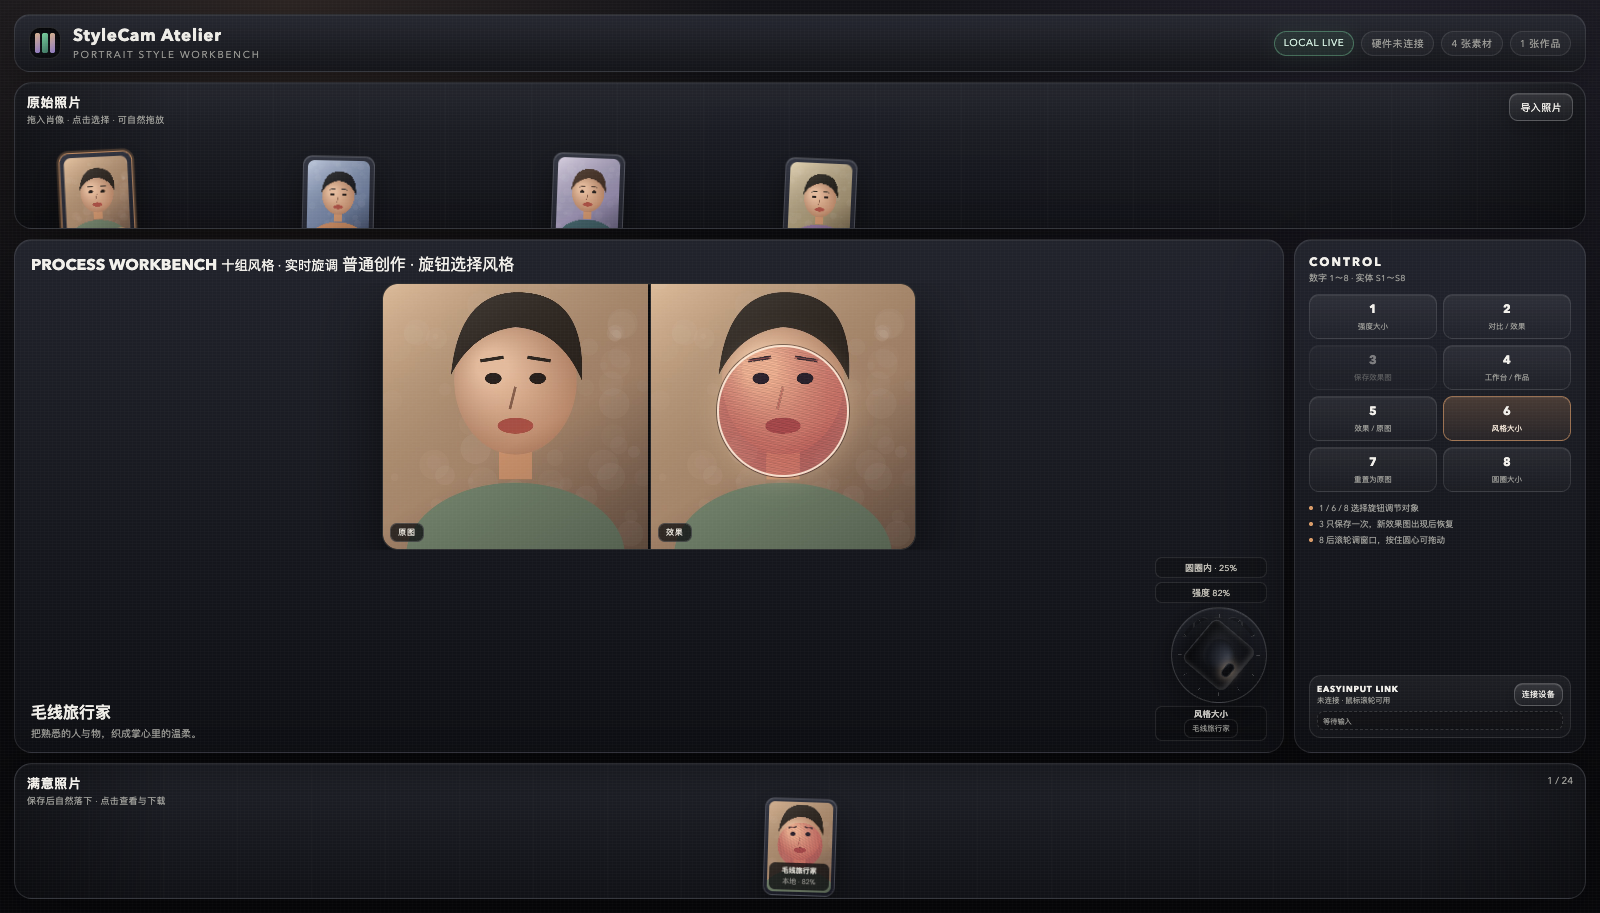
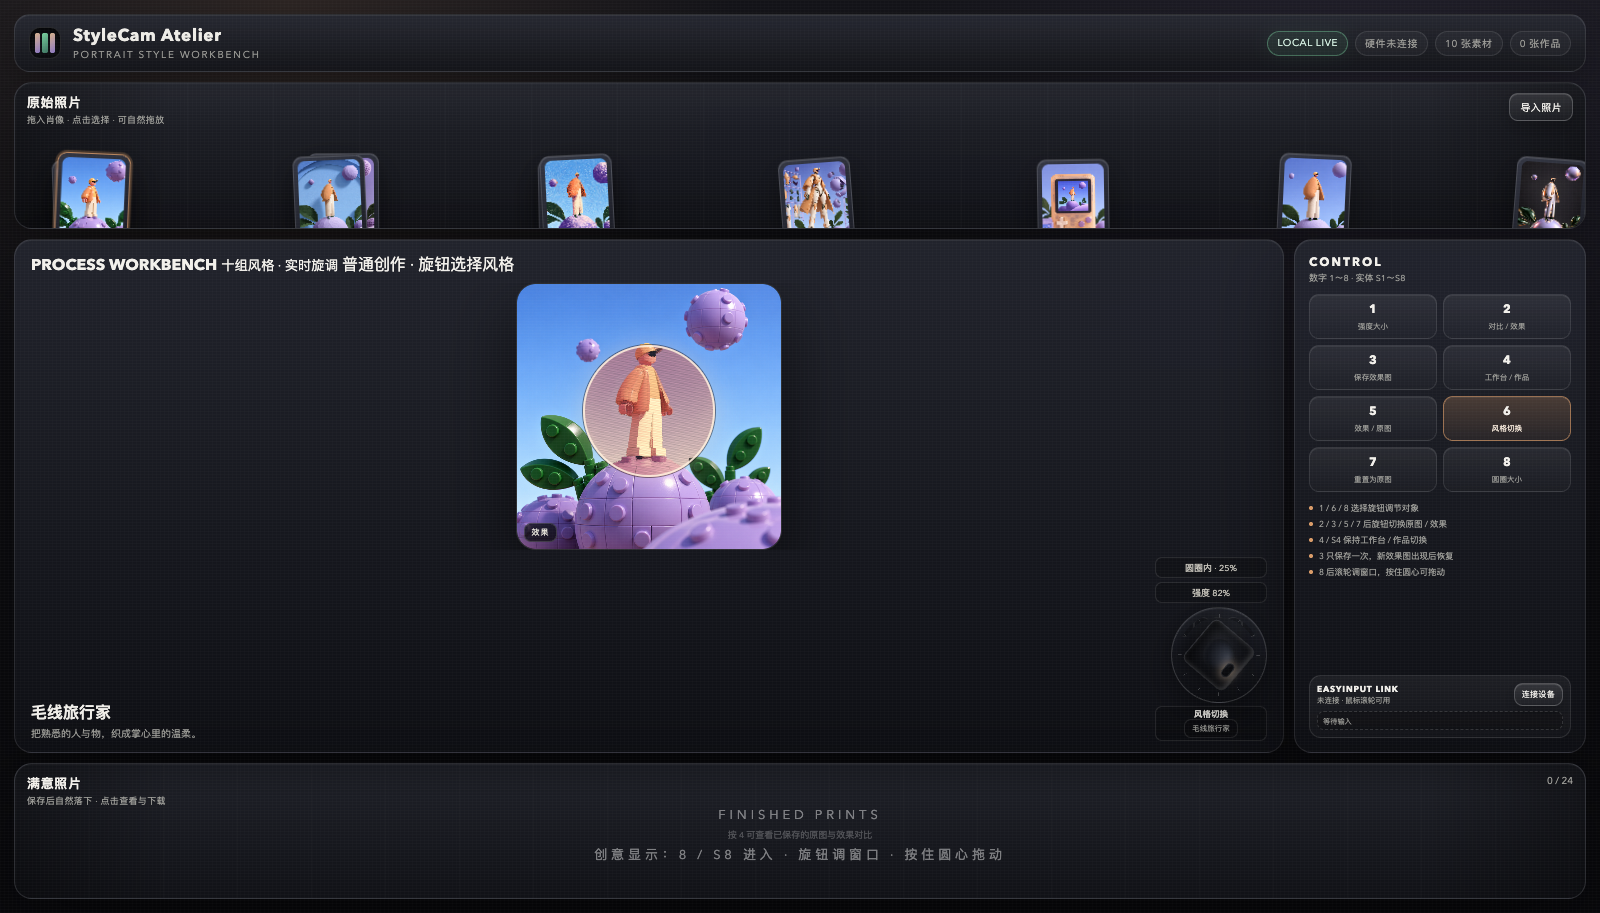
Add default portraits and refine view controls

diff --git a/app.js b/app.js
@@ -16,10 +16,19 @@
 
   const MODES = [
     { id: 'strength', name: '强度大小' },
-    { id: 'style', name: '风格大小' },
+    { id: 'style', name: '风格切换' },
     { id: 'radius', name: '圆圈大小' },
+    { id: 'view', name: '原图 / 效果' },
     { id: 'works', name: '查看作品' }
   ];
+
+  const DEFAULT_PORTRAITS = Array.from({ length: 10 }, (_, index) => {
+    const number = String(index + 1).padStart(2, '0');
+    return {
+      url: `./assets/portraits/${number}.png`,
+      name: `默认肖像 ${number}.png`
+    };
+  });
 
   const MAX_RADIUS = 1.50;
   const FULL_COVER_RADIUS = 1.42;
@@ -922,96 +931,11 @@
     if (added) showTap(`已导入 ${added} 张照片`);
   }
 
-  function makeSamplePortraits() {
-    const palettes = [
-      { bg: ['#d9b28a', '#73594a'], cloth: '#6f7f68', hair: '#28211c' },
-      { bg: ['#a7b8d8', '#3c4863'], cloth: '#c2855e', hair: '#191a1e' },
-      { bg: ['#c7c1dc', '#635a7a'], cloth: '#3f5d63', hair: '#402c23' },
-      { bg: ['#d7c6a3', '#6d5e45'], cloth: '#886b94', hair: '#211d18' }
-    ];
-    return palettes.map((palette, index) => {
-      const canvas = document.createElement('canvas');
-      canvas.width = 800;
-      canvas.height = 1000;
-      const ctx = canvas.getContext('2d');
-      const bg = ctx.createLinearGradient(0, 0, 800, 1000);
-      bg.addColorStop(0, palette.bg[0]);
-      bg.addColorStop(1, palette.bg[1]);
-      ctx.fillStyle = bg;
-      ctx.fillRect(0, 0, 800, 1000);
-
-      for (let i = 0; i < 90; i += 1) {
-        ctx.fillStyle = `rgba(255,255,255,${0.015 + Math.random() * 0.035})`;
-        ctx.beginPath();
-        ctx.arc(Math.random() * 800, Math.random() * 1000, Math.random() * 42 + 5, 0, Math.PI * 2);
-        ctx.fill();
-      }
-
-      // shoulders
-      ctx.fillStyle = palette.cloth;
-      ctx.beginPath();
-      ctx.ellipse(400, 920, 330, 220, 0, 0, Math.PI * 2);
-      ctx.fill();
-
-      // neck and face
-      ctx.fillStyle = '#c68e69';
-      ctx.fillRect(350, 520, 100, 170);
-      const face = ctx.createRadialGradient(330, 350, 45, 400, 410, 270);
-      face.addColorStop(0, '#efc3a2');
-      face.addColorStop(1, '#a06c50');
-      ctx.fillStyle = face;
-      ctx.beginPath();
-      ctx.ellipse(400, 390, 185, 225, 0, 0, Math.PI * 2);
-      ctx.fill();
-
-      // hair
-      ctx.fillStyle = palette.hair;
-      ctx.beginPath();
-      ctx.moveTo(205, 375);
-      ctx.quadraticCurveTo(230, 115, 420, 125);
-      ctx.quadraticCurveTo(615, 135, 600, 390);
-      ctx.quadraticCurveTo(535, 240, 400, 230);
-      ctx.quadraticCurveTo(270, 245, 205, 375);
-      ctx.closePath();
-      ctx.fill();
-
-      // eyes and brows
-      ctx.fillStyle = '#251d19';
-      ctx.beginPath();
-      ctx.ellipse(333, 385, 25, index % 2 ? 13 : 17, 0, 0, Math.PI * 2);
-      ctx.ellipse(467, 385, 25, index % 2 ? 13 : 17, 0, 0, Math.PI * 2);
-      ctx.fill();
-      ctx.lineWidth = 10;
-      ctx.strokeStyle = palette.hair;
-      ctx.beginPath();
-      ctx.moveTo(294, 332); ctx.lineTo(364, 321);
-      ctx.moveTo(436, 321); ctx.lineTo(506, 332);
-      ctx.stroke();
-
-      // nose and mouth
-      ctx.strokeStyle = 'rgba(90,52,38,.65)';
-      ctx.lineWidth = 8;
-      ctx.beginPath();
-      ctx.moveTo(400, 410); ctx.lineTo(383, 478);
-      ctx.stroke();
-      ctx.fillStyle = '#a94f44';
-      ctx.beginPath();
-      ctx.ellipse(400, 528, 54, 24, 0, 0, Math.PI * 2);
-      ctx.fill();
-
-      // lighting
-      const light = ctx.createLinearGradient(120, 0, 720, 1000);
-      light.addColorStop(0, 'rgba(255,242,226,.23)');
-      light.addColorStop(0.55, 'rgba(0,0,0,0)');
-      light.addColorStop(1, 'rgba(0,0,0,.28)');
-      ctx.fillStyle = light;
-      ctx.fillRect(0, 0, 800, 1000);
-
-      const dataUrl = canvas.toDataURL('image/jpeg', 0.90);
-      const image = new Image();
-      image.src = dataUrl;
-      return { image, dataUrl, name: `示例肖像 ${index + 1}.jpg` };
-    });
+  async function loadDefaultPortraits() {
+    return Promise.all(DEFAULT_PORTRAITS.map(async portrait => {
+      const image = await loadImageFromUrl(portrait.url);
+      return { image, dataUrl: portrait.url, name: portrait.name };
+    }));
   }
 
   /* ---------------- AI image pipeline ---------------- */
@@ -1234,7 +1158,7 @@
         browseWorks(delta);
         break;
       default:
-        changeStyle(delta);
+        setView(state.view === 'original' ? 'effect' : 'original');
         break;
     }
     updateUi();
@@ -1272,7 +1196,8 @@
     clearStaleAiResult();
     state.strengthTarget = 0;
     state.strength = 0;
-    setView('effect');
+    setView('original');
+    setMode('view');
     updateUi();
     showTap('效果图已重置为原图');
   }
@@ -1288,16 +1213,22 @@
         break;
       case 'compare':
         setView(state.view === 'compare' ? 'effect' : 'compare');
+        setMode('view');
         if (elements.workDialog.open) flashComparison();
         break;
       case 'save':
         if (elements.workDialog.open && dialogContext.work && !dialogContext.saved) {
-          void saveWork({ work: dialogContext.work });
+          void saveWork({ work: dialogContext.work }).then(work => {
+            if (work) setMode('view');
+          });
         } else {
-          void saveWork();
+          void saveWork().then(work => {
+            if (work) setMode('view');
+          });
         }
         break;
       case 'works':
+        // S4 keeps its dedicated behavior: close an open preview or browse works.
         if (elements.workDialog.open) {
           elements.workDialog.close();
           setCreativeDisplay(false);
@@ -1312,6 +1243,7 @@
         break;
       case 'original':
         setView(state.view === 'original' ? 'effect' : 'original');
+        setMode('view');
         break;
       case 'style':
         setCreativeDisplay(false);
@@ -1790,7 +1722,11 @@
         break;
       case 'works':
         browseWorks(delta);
-        break;    }
+        break;
+      default:
+        setView(state.view === 'original' ? 'effect' : 'original');
+        break;
+    }
     updateUi();
   }
 
@@ -1809,6 +1745,10 @@
       case 'strength': return `${Math.round(state.strengthTarget * 100)}%`;
       case 'source': return sources.length ? `${state.sourceIndex + 1} / ${sources.length}` : '未导入';
       case 'works': return works.length ? `${state.workBrowseIndex + 1} / ${works.length}` : '未保存';
+      case 'view':
+        if (state.view === 'original') return '原图';
+        if (state.view === 'compare') return '对比';
+        return '效果图';
       default: return '';
     }
   }
@@ -2087,18 +2027,14 @@
     updateCounts();
     void detectAiService();
 
-    const samples = makeSamplePortraits();
-    // Decode generated samples before addSource() uploads them; otherwise the
-    // first WebGL selection can receive an unfinished HTMLImageElement.
-    await Promise.all(samples.map(async sample => {
-      await sample.image.decode?.().catch(() => {});
-      return sample;
-    }));
+    // Static portraits still pass through the same decode boundary before WebGL
+    // upload, preventing INVALID_VALUE from incompletely decoded textures.
+    const samples = await loadDefaultPortraits();
     samples.forEach(sample => addSource(sample));
     selectSource(0);
     updateUi();
     requestAnimationFrame(frame);
-    showTap('已载入示例肖像，可拖入照片替换');
+    showTap('已载入 10 张默认肖像，可拖入照片替换');
   }
 
   void init();

diff --git a/docs/homework/input-mapping.html b/docs/homework/input-mapping.html
@@ -6,8 +6,8 @@ h1{margin:0 0 4px;font-size:28px}h2{margin:25px 0 8px;font-size:18px;color:#f0d5
 table{width:100%;border-collapse:collapse;margin-top:8px;font-size:12px}th,td{padding:8px 9px;border:1px solid rgba(255,255,255,.11);text-align:left}th{color:#d9c7ff;background:rgba(159,140,216,.10)}td:first-child{color:#ffd9ac;font-weight:700}
 .note{margin-top:15px;padding:10px;border-radius:9px;background:rgba(226,109,92,.10);border:1px solid rgba(226,109,92,.28);font-size:11px;line-height:1.6}.cols{display:grid;grid-template-columns:1fr 1fr;gap:14px}
 code{font-family:ui-monospace,Menlo,monospace;color:#b9f0d4}
-</style><div class="sheet"><h1>StyleCam 输入映射表</h1><div class="meta">数字 1～8 = 实体 S1～S8 · Web Serial 115200 baud · 页面 v14</div>
-<h2>核心功能</h2><table><tr><th>数字 / 实体键</th><th>功能</th><th>说明</th></tr><tr><td>1 / S1</td><td>强度大小</td><td>旋钮 / 滚轮调整强度</td></tr><tr><td>2 / S2</td><td>对比 / 效果</td><td>切换并排对比与单张效果图</td></tr><tr><td>3 / S3</td><td>保存效果图</td><td>同一效果图只保存一次</td></tr><tr><td>4 / S4</td><td>工作台 / 作品</td><td>弹窗打开则返回，否则查看作品</td></tr><tr><td>5 / S5</td><td>效果 / 原图</td><td>切换效果图与原图</td></tr><tr><td>6 / S6</td><td>风格大小</td><td>旋钮 / 滚轮切换 10 种风格</td></tr><tr><td>7 / S7</td><td>重置为原图</td><td>强度归零并清除 AI 成片</td></tr><tr><td>8 / S8</td><td>圆圈大小</td><td>进入创意显示并调整窗口</td></tr></table>
-<div class="cols"><div><h2>旋钮</h2><table><tr><th>状态</th><th>行为</th></tr><tr><td>默认 / 6</td><td>切换风格</td></tr><tr><td>1</td><td>强度 ±5%</td></tr><tr><td>8</td><td>圆圈大小</td></tr><tr><td>4</td><td>切换已保存作品</td></tr><tr><td>按下 · 1</td><td>确认强度并生成</td></tr><tr><td>按下 · 8</td><td>确认创意窗口</td></tr></table></div>
+</style><div class="sheet"><h1>StyleCam 输入映射表</h1><div class="meta">数字 1～8 = 实体 S1～S8 · Web Serial 115200 baud · 页面 v15</div>
+<h2>核心功能</h2><table><tr><th>数字 / 实体键</th><th>功能</th><th>说明</th></tr><tr><td>1 / S1</td><td>强度大小</td><td>旋钮 / 滚轮调整强度</td></tr><tr><td>2 / S2</td><td>对比 / 效果</td><td>切换并排对比与单张效果图</td></tr><tr><td>3 / S3</td><td>保存效果图</td><td>同一效果图只保存一次</td></tr><tr><td>4 / S4</td><td>工作台 / 作品</td><td>弹窗打开则返回，否则查看作品</td></tr><tr><td>5 / S5</td><td>效果 / 原图</td><td>切换效果图与原图</td></tr><tr><td>6 / S6</td><td>风格切换</td><td>旋钮 / 滚轮切换 10 种风格</td></tr><tr><td>7 / S7</td><td>重置为原图</td><td>强度立即归零、清除 AI 成片并显示原图</td></tr><tr><td>8 / S8</td><td>圆圈大小</td><td>进入创意显示并调整窗口</td></tr></table>
+<div class="cols"><div><h2>旋钮</h2><table><tr><th>状态</th><th>行为</th></tr><tr><td>默认 / 6</td><td>切换风格</td></tr><tr><td>1</td><td>强度 ±5%</td></tr><tr><td>8</td><td>圆圈大小</td></tr><tr><td>2 / 3 / 5 / 7</td><td>切换原图 / 效果图</td></tr><tr><td>4</td><td>切换已保存作品（S4 保持不变）</td></tr><tr><td>按下 · 1</td><td>确认强度并生成</td></tr><tr><td>按下 · 8</td><td>确认创意窗口</td></tr></table></div>
 <div><h2>串口协议</h2><table><tr><th>输入</th><th>示例</th></tr><tr><td>编码器</td><td><code>{"type":"encoder","delta":1}</code></td></tr><tr><td>编码器按下</td><td><code>ENC_PRESS</code></td></tr><tr><td>S 键</td><td><code>S3_DOWN</code></td></tr><tr><td>数字别名</td><td><code>3_DOWN</code></td></tr><tr><td>JSON 数字</td><td><code>{"key":"3","action":"down"}</code></td></tr></table></div></div>
 <div class="note"><strong>保存去重：</strong>素材、风格、强度、圆圈大小 / 位置、显示区域或 AI 成片变化后才视为新效果图；同一效果图重复按 3 / S3 不会重复保存。顶部显示“硬件已连接”并出现串口实体事件，才可作为真实硬件证据；鼠标滚轮仅为本地回退。无 API Key 时仅为本地演示，非真实 AI 生成。</div></div>

diff --git a/index.html b/index.html
@@ -119,13 +119,15 @@
             <button class="function-button" type="button" data-command="save"><strong>3</strong><span>保存效果图</span></button>
             <button class="function-button" type="button" data-command="works" data-mode="works"><strong>4</strong><span>工作台 / 作品</span></button>
             <button class="function-button" type="button" data-command="original"><strong>5</strong><span>效果 / 原图</span></button>
-            <button class="function-button" type="button" data-command="style" data-mode="style"><strong>6</strong><span>风格大小</span></button>
+            <button class="function-button" type="button" data-command="style" data-mode="style"><strong>6</strong><span>风格切换</span></button>
             <button class="function-button" type="button" data-command="reset"><strong>7</strong><span>重置为原图</span></button>
             <button class="function-button" type="button" data-command="radius" data-mode="radius"><strong>8</strong><span>圆圈大小</span></button>
           </div>
 
           <div class="control-hints">
             <span>1 / 6 / 8 选择旋钮调节对象</span>
+            <span>2 / 3 / 5 / 7 后旋钮切换原图 / 效果</span>
+            <span>4 / S4 保持工作台 / 作品切换</span>
             <span>3 只保存一次，新效果图出现后恢复</span>
             <span>8 后滚轮调窗口，按住圆心可拖动</span>
           </div>

diff --git a/docs/homework/input-mapping.md b/docs/homework/input-mapping.md
@@ -1,6 +1,6 @@
 # StyleCam 输入映射表
 
-适用页面：`http://127.0.0.1:4174/?v=14`
+适用页面：`http://127.0.0.1:4174/?v=15`
 
 当前网页数字键 `1～8` 与实体键 `S1～S8` 使用同一套映射。
 
@@ -13,18 +13,19 @@
 | `3` | `S3` | 保存效果图 | 同一效果图只保存一次；新效果图出现后按钮恢复 |
 | `4` | `S4` | 回到工作台 / 查看作品 | 弹窗打开时返回；未打开时查看已保存作品 |
 | `5` | `S5` | 切换 效果图 / 原图 | 在效果图与原图间切换 |
-| `6` | `S6` | 风格大小 / 风格切换 | 选中后旋钮 / 滚轮切换 10 种风格 |
-| `7` | `S7` | 效果图重置为原图 | 强度归零并清除当前 AI 成片 |
+| `6` | `S6` | 风格切换 | 选中后旋钮 / 滚轮切换 10 种风格 |
+| `7` | `S7` | 效果图重置为原图 | 强度立即归零、清除当前 AI 成片并显示原图 |
 | `8` | `S8` | 圆圈大小 | 进入创意显示；旋钮 / 滚轮调整圆形窗口 |
 
 ## 二、旋钮行为
 
 | 当前选中 | 旋钮左 / 右 |
 | --- | --- |
-| 默认 / `6 风格大小` | 上一个 / 下一个风格 |
+| 默认 / `6 风格切换` | 上一个 / 下一个风格 |
 | `1 强度大小` | 强度 -5% / +5% |
 | `8 圆圈大小` | 圆圈缩小 / 放大 |
-| `4 查看作品` | 上一个 / 下一个作品 |
+| `2 / 3 / 5 / 7 原图 / 效果` | 在原图与效果图间切换 |
+| `4 查看作品` | 上一个 / 下一个作品（S4 功能保持不变） |
 
 旋钮按下：
 

diff --git a/docs/homework/demo-script.md b/docs/homework/demo-script.md
@@ -6,9 +6,9 @@
 
 | 时间 | 画面与操作 | 必须可见 |
 | --- | --- | --- |
-| 00:00–00:08 | 打开 `http://127.0.0.1:4174/?v=14`；点击“连接设备”，选择 EasyInput 串口 | 顶部“硬件已连接”和串口实体事件 |
+| 00:00–00:08 | 打开 `http://127.0.0.1:4174/?v=15`；点击“连接设备”，选择 EasyInput 串口 | 顶部“硬件已连接”和串口实体事件 |
 | 00:08–00:16 | 点击“导入照片”，选择自己的肖像素材 | 上传文件名 / 原图出现在工作台 |
-| 00:16–00:26 | 默认状态下转动实体旋钮，浏览至少 3 种风格 | `风格大小` 和风格名称变化 |
+| 00:16–00:26 | 默认状态下转动实体旋钮，浏览至少 3 种风格 | `风格切换` 和风格名称变化 |
 | 00:26–00:38 | 按 `1 / S1` 选择强度；旋钮调整；旋钮按下确认生成 | `强度大小`、强度百分比、生成状态提示 |
 | 00:38–00:50 | 等待生成完成，画面自动放大 | 原图与“本地演示成片”并排显示 |
 | 00:50–01:00 | 按 `2 / S2` 切换对比 / 效果；按 `5 / S5` 切换效果 / 原图 | 视图切换且颜色不变暗 |

diff --git a/docs/homework/issue-record.md b/docs/homework/issue-record.md
@@ -14,7 +14,7 @@ WebGL: INVALID_VALUE: texImage2D: no image
 
 检查 `app.js` 初始化流程发现：
 
-1. `makeSamplePortraits()` 创建 HTML `Image`；
+1. `loadDefaultPortraits()` 读取静态默认肖像并等待 HTML `Image` 载入；
 2. `addSource()` 被立即调用；
 3. `renderer.setImage()` 随即把图片对象上传给 WebGL；
 4. 图片实际解码在之后才完成。
@@ -26,7 +26,7 @@ WebGL: INVALID_VALUE: texImage2D: no image
 调整初始化顺序为：
 
 ```text
-创建示例图片
+读取默认肖像图片
   ↓
 等待 image.decode()
   ↓

diff --git a/README.md b/README.md
@@ -15,7 +15,7 @@ A portrait style workbench with:
 npm start
 ```
 
-Open <http://127.0.0.1:4174/?v=14>.
+Open <http://127.0.0.1:4174/?v=15>.
 
 ## Optional AI mode
 
